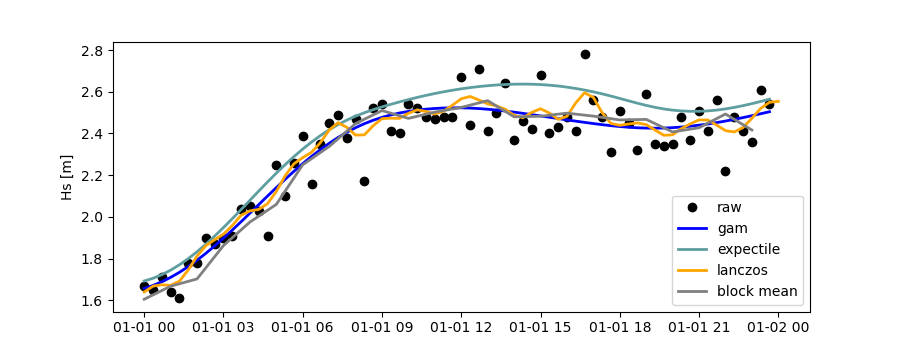
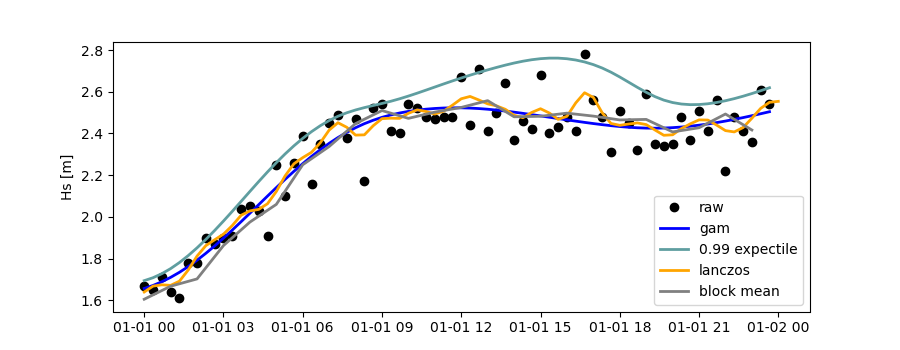
bugfix in docs

diff --git a/docs/tutorials.rst b/docs/tutorials.rst
@@ -235,7 +235,7 @@ Additionally, outliers can be removed, missing data can be treated, and super-ob
    >>> st_obj_gam = station_class('ekofiskL','waverider',sd,ed,varalias='Hs',superobserve=True,superob='gam',outlier_detection='gam',missing_data='impute',date_incr=1./6.,unique=True)
 
    >>> # Expectile
-   >>> st_obj_EG = station_class('ekofiskL','waverider',sd,ed,varalias='Hs',superobserve=True,superob='expectileGAM',outlier_detection=None,missing_data='impute',date_incr=1./6.,unique=True,expectile=.975)
+   >>> st_obj_EG = station_class('ekofiskL','waverider',sd,ed,varalias='Hs',superobserve=True,superob='expectileGAM',outlier_detection=None,missing_data='impute',date_incr=1./6.,unique=True,expectile=.99)
 
    >>> # Lanczos
    >>> st_obj_lancz = station_class('ekofiskL','waverider',sd,ed,varalias='Hs',superobserve=True,superob='lanczos',outlier_detection=None,missing_data='impute',cutoff=1./6.,window=7,stwin=3,etwin=3,unique=True)
@@ -255,7 +255,7 @@ Now, let's check how this could look like:
    >>> ax = fig.add_subplot(111)
    >>> ax.plot(st_obj.vars['datetime'],st_obj.vars[stdname],'ko',label='raw')
    >>> ax.plot(st_obj_gam.vars['datetime'],st_obj_gam.vars[stdname],'b-',label='gam',lw=2)
-   >>> ax.plot(st_obj_EG.vars['datetime'],st_obj_EG.vars[stdname],color='cadetblue',label='0.9 expectile',lw=2)
+   >>> ax.plot(st_obj_EG.vars['datetime'],st_obj_EG.vars[stdname],color='cadetblue',label='0.99 expectile',lw=2)
    >>> ax.plot(st_obj_lancz.vars['datetime'],st_obj_lancz.vars[stdname],color='orange',label='lanczos',lw=2)
    >>> ax.plot(st_obj_bm.vars['datetime'],st_obj_bm.vars[stdname],color='gray',label='block mean',lw=2)
    >>> plt.legend(loc='lower right')
